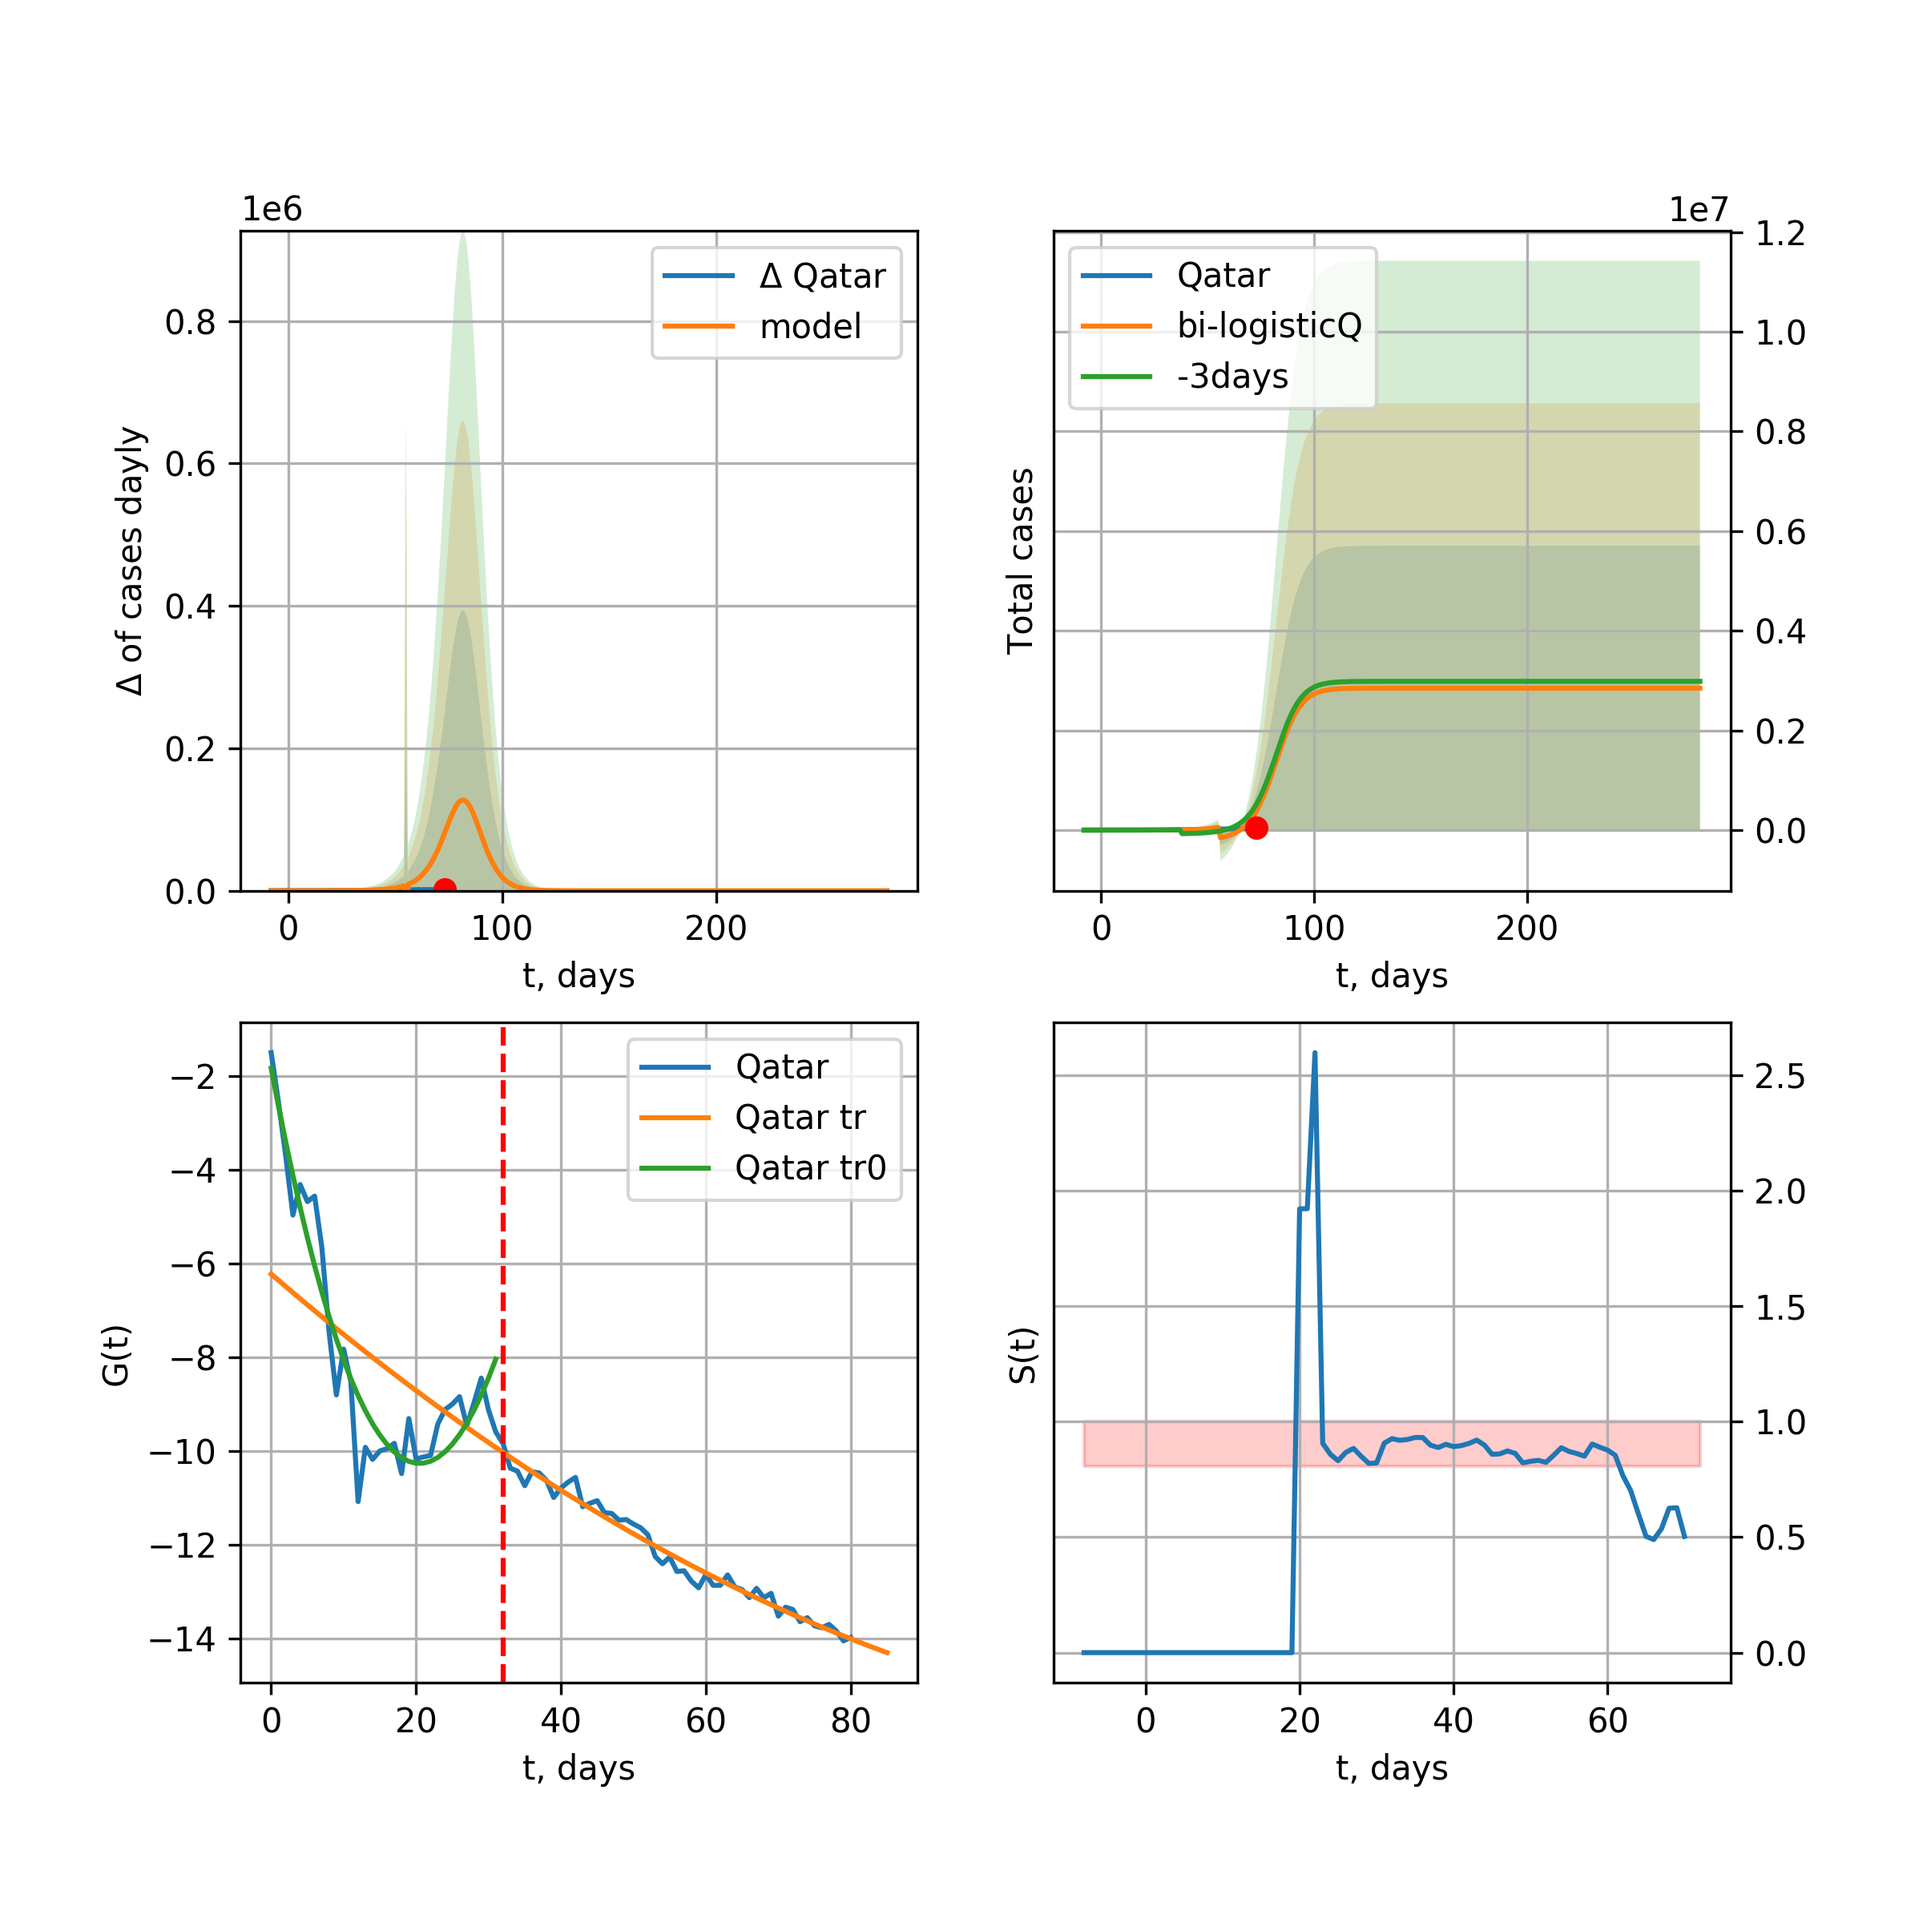
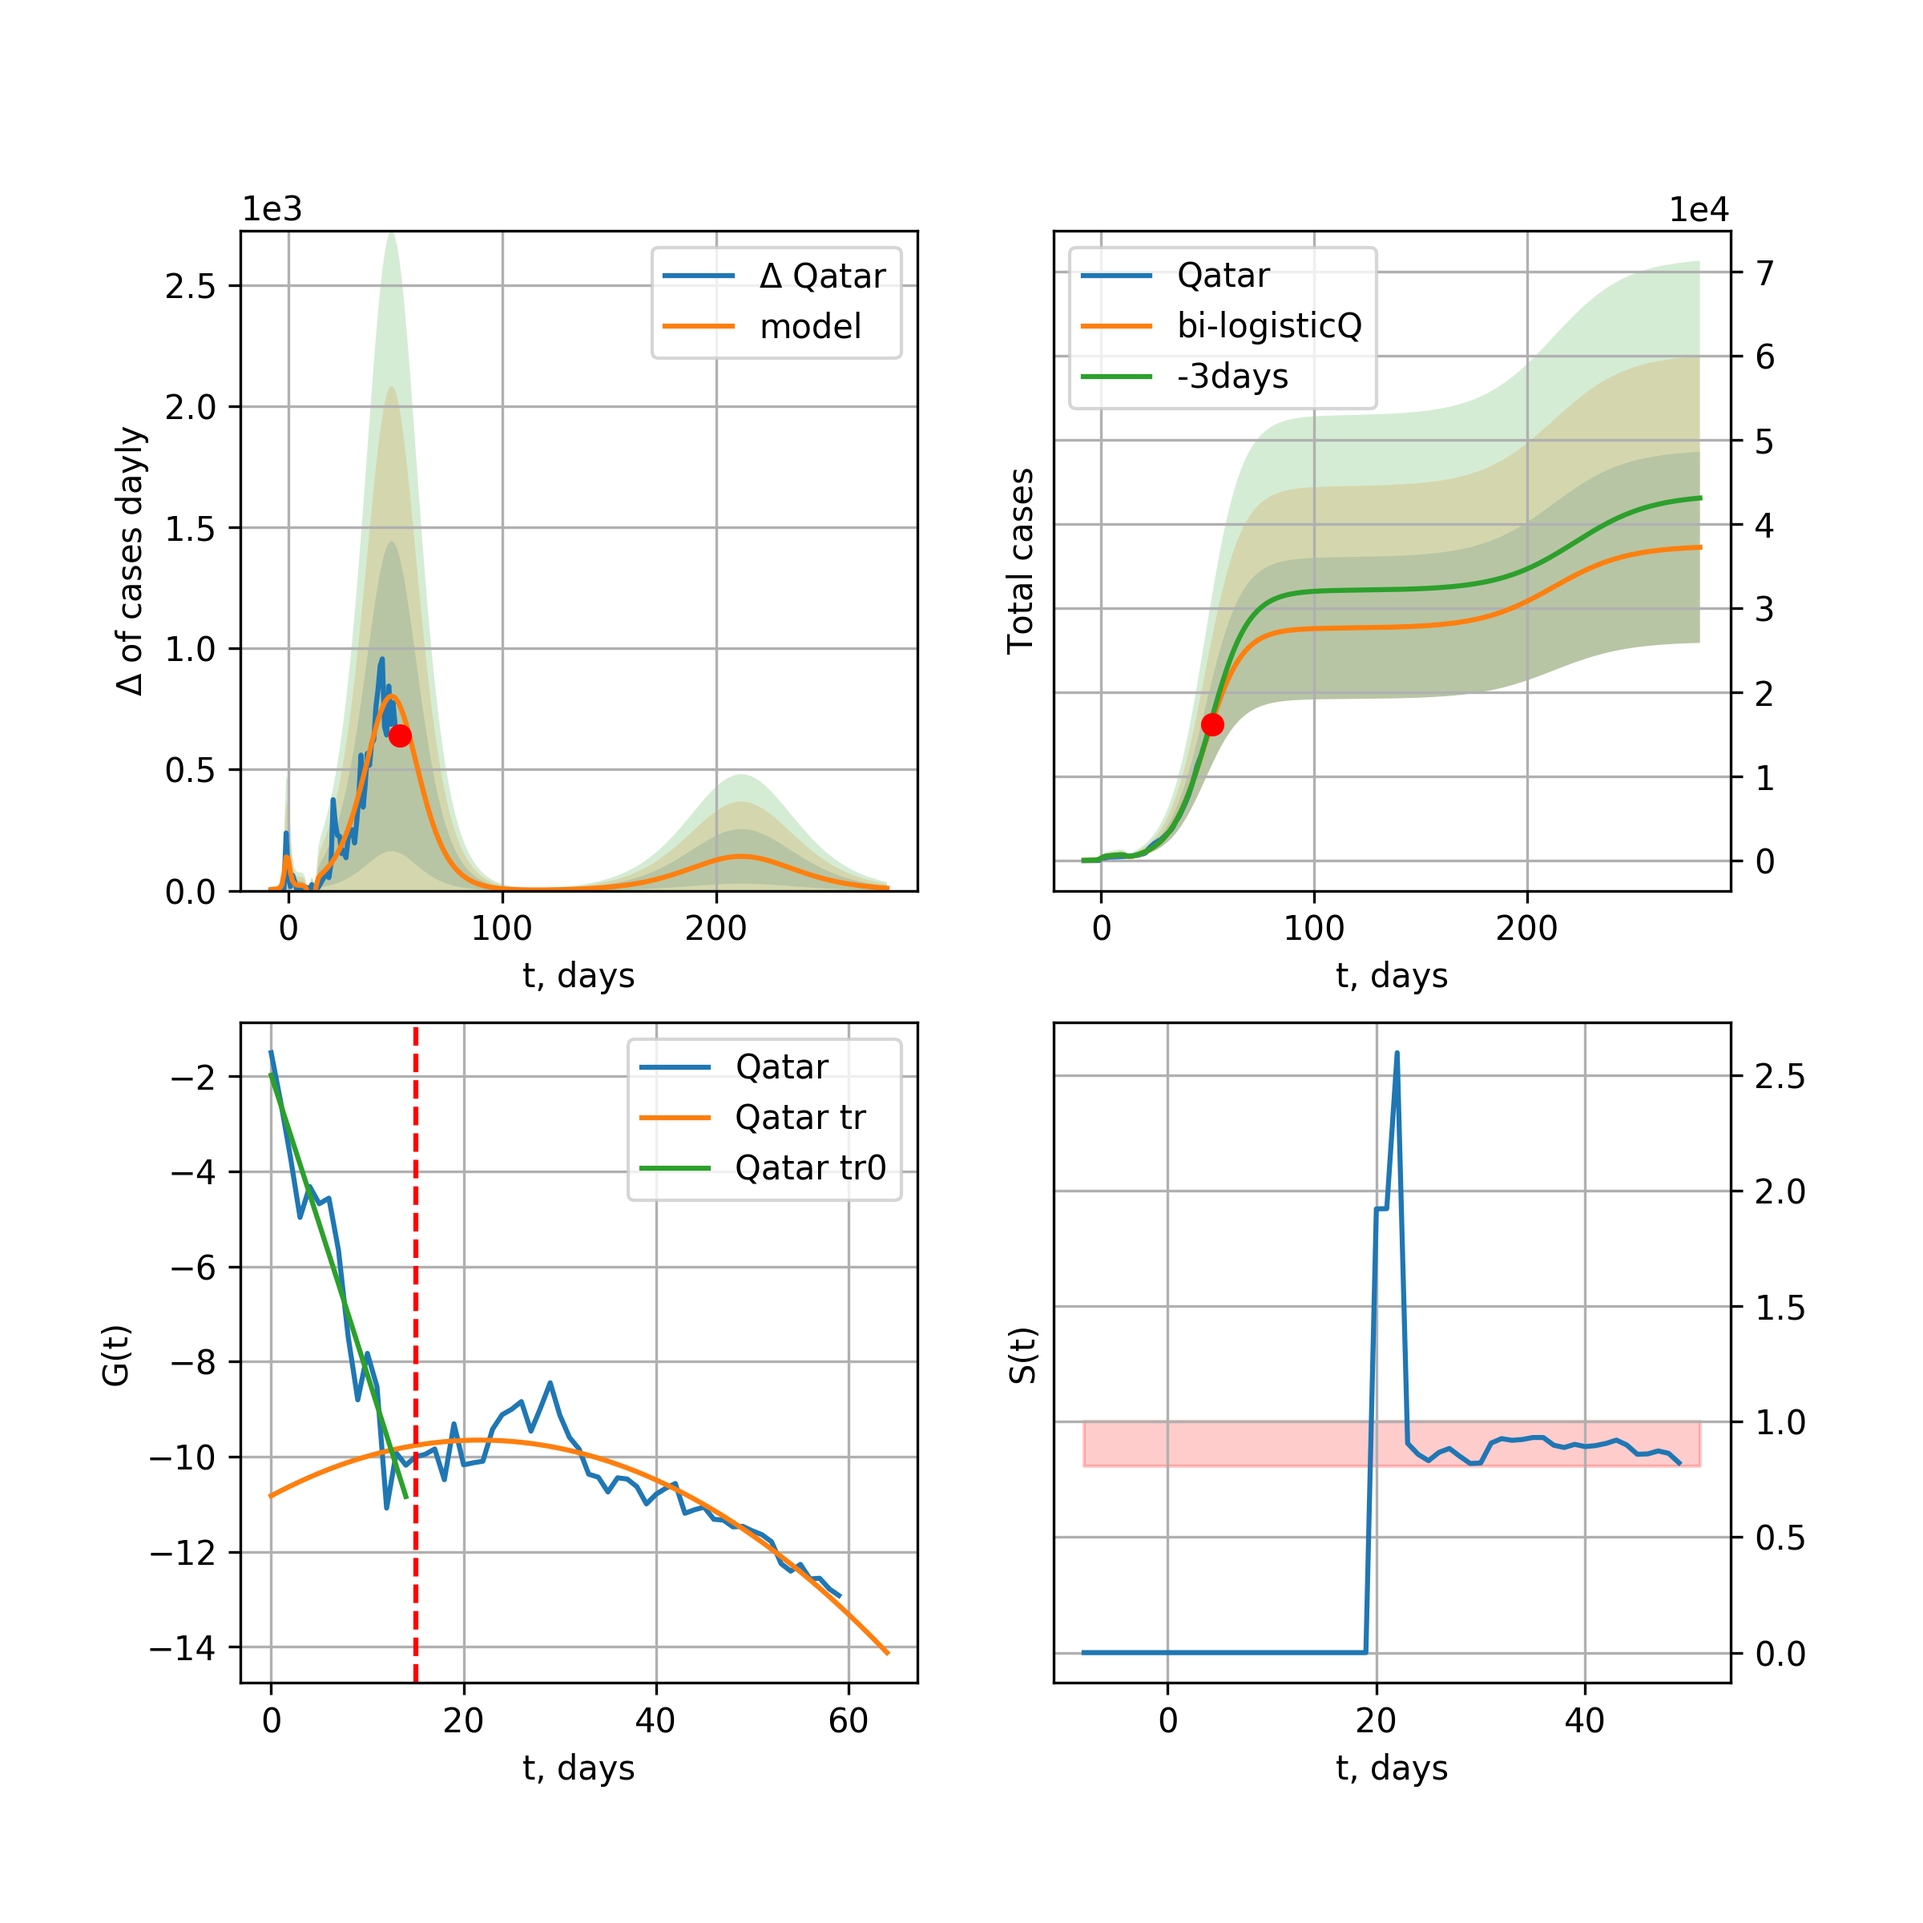
QR renew 2020-05-25

diff --git a/_site/index.html b/_site/index.html
@@ -735,18 +735,18 @@ trend coefficient of determination: 0.774646 <br />
     <img src="pictures/covidcasesQatar36_R.png" alt="hi" class="inline"/><br /> 
 
       Qatar data at: 2020-05-25<br />
-+3 day model MAPE: 935144959.488374<br />
++3 day model MAPE: 0.001310<br />
 model: Richards<br />
-coeffs: [ 2.03224586e+01  5.54176280e-02 -7.74463705e+01 -2.91390850e+00]<br />
+coeffs: [ 2.69028912e+05  4.87740666e-01 -4.30015120e+01  4.68329466e-02]<br />
 S.Korea scenario coeffs: [0.36242246, 2.56241634, 1.84890887, 0.13324732]<br />
-rational stdev: 0.302947<br />
+rational stdev: 0.543812<br />
 forecast at the end of period: +936 days<br />
-	 deltaDaycases: 26868950902453866068304200034404722075624528161675517227567408501227520<br />
-	 total cases: 202966243842468604220768062273061519034213192782759292512060925898915840 ± 61488008684088272325877710462306417529002447069389108699191083928649728<br />
-	 total death: 116069995378954875447494281440292430499583794006350989867630247018496 ± 105489160395004619279248063712976702883163400125078613686003787890688<br />
-trend coefficient of determination: 0.953002 <br />
- intercept: 13.977737 <br />
- slope: 0.223668<br />
+	 deltaDaycases: 26<br />
+	 total cases: 363145 ± 197482<br />
+	 total death: 207 ± 337<br />
+trend coefficient of determination: 0.004512 <br />
+ intercept: -3.218729 <br />
+ slope: -0.001927<br />
           <br /> 
     
     Poland
